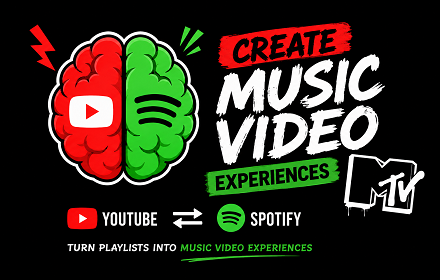
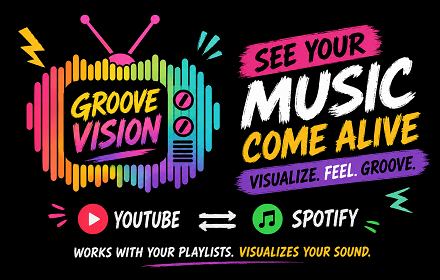
Image changes

diff --git a/index.html b/index.html
@@ -5,7 +5,17 @@
   <meta name="viewport" content="width=device-width, initial-scale=1.0">
   <title>GrooveVision — Watch What You Listen To</title>
   <meta name="description" content="Automatically opens and syncs YouTube music videos to your Spotify playback. No Spotify Premium required.">
-  <link rel="icon" type="image/png" href="icons/48x48.png">
+  <meta property="og:title" content="GrooveVision — Watch What You Listen To">
+  <meta property="og:description" content="Automatically opens and syncs YouTube music videos to your Spotify playback. No Spotify Premium required.">
+  <meta property="og:image" content="images/promo-tile.png">
+  <meta property="og:type" content="website">
+  <meta name="twitter:card" content="summary_large_image">
+  <meta name="twitter:title" content="GrooveVision — Watch What You Listen To">
+  <meta name="twitter:description" content="Automatically opens and syncs YouTube music videos to your Spotify playback. No Spotify Premium required.">
+  <meta name="twitter:image" content="images/promo-tile.png">
+  <link rel="icon" type="image/png" sizes="16x16" href="icons/16x16.png?v=2">
+  <link rel="icon" type="image/png" sizes="48x48" href="icons/48x48.png?v=2">
+  <link rel="apple-touch-icon" sizes="128x128" href="icons/128x128.png?v=2">
   <style>
     *, *::before, *::after { box-sizing: border-box; margin: 0; padding: 0; }
 
@@ -490,7 +500,7 @@
   <!-- ── Nav ── -->
   <nav>
     <div class="nav-brand">
-      <img src="icons/48x48.png" alt="GrooveVision icon">
+      <img src="icons/48x48.png?v=2" alt="GrooveVision icon">
       GrooveVision
     </div>
     <div class="nav-actions">
